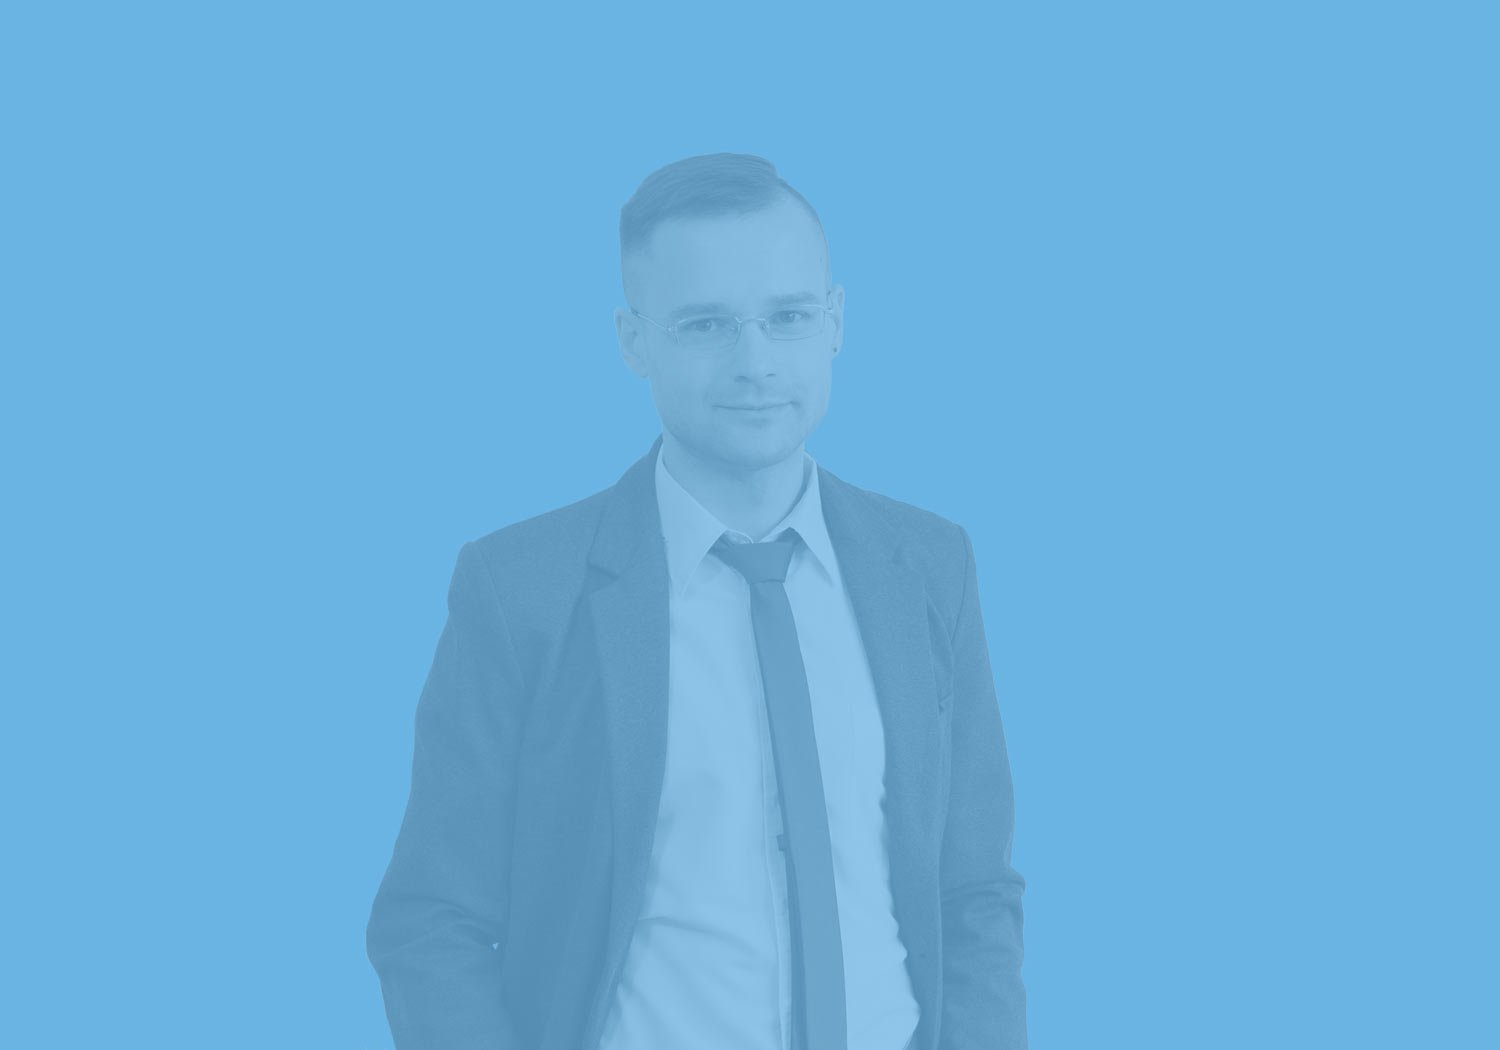
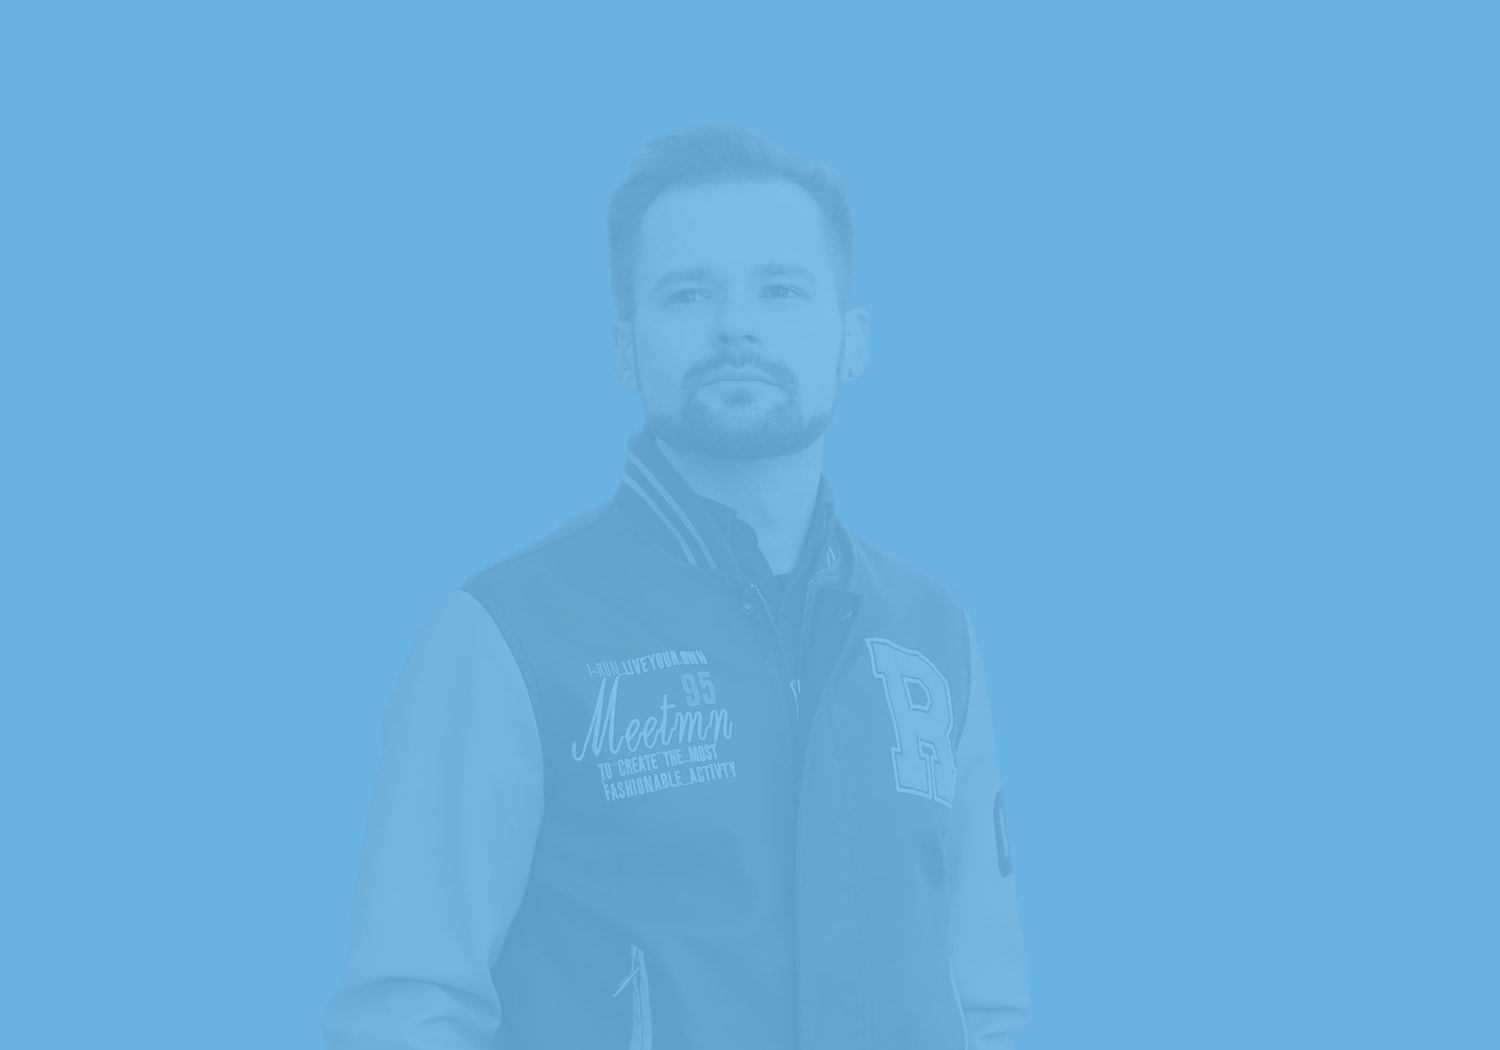
replace my photo

diff --git a/src/sass/global/_header.scss b/src/sass/global/_header.scss
@@ -1,8 +1,7 @@
 .header {
   min-height: 25vh;
   color: #fff;
-  //background: $bgblue url('../img/header_mine.jpg') no-repeat center top fixed
-  background: $bgblue;
+  background: $bgblue url('../img/header_mine.jpg') no-repeat center top fixed;
 
   &-logo {
     text-align: right;
@@ -14,6 +13,7 @@
       margin: 0 5px;
       transition: color .2s ease;
       position: relative;
+
       &:after {
         content: '';
         display: block;
@@ -25,8 +25,10 @@
         background: transparent;
         transition: width .4s ease, left .4s ease;
       }
+
       &:hover {
         color: #0074D9;
+
         &:after {
           width: 100%;
           left: 0;
@@ -40,6 +42,7 @@
     margin: 20px 0;
     justify-content: center;
     flex-direction: column;
+
     @include mq('tablet') {
       margin: 100px 0;
     }
@@ -49,13 +52,15 @@
     justify-content: center;
     margin-top: 50px;
     flex-direction: column;
+
     @include mq('tablet') {
       flex-direction: row;
     }
-    > div {
+
+    >div {
       margin: 0 25px 25px;
     }
-    
+
   }
 
   ion-icon {
@@ -65,12 +70,15 @@
   &-col__bold {
     font-weight: 700;
     display: block;
+
     @include mq('tablet') {
       display: inline;
     }
   }
+
   br {
     display: none;
+
     @include mq('tablet') {
       display: block;
     }

diff --git a/CONTRIBUTING.md b/CONTRIBUTING.md
@@ -1,6 +1,5 @@
 # TO DO
-- нормальную фотку
-
+- add glasses
 
 ## Important
 
@@ -17,3 +16,4 @@
 - Вырезать бутстрап
 - update info in russian version
 - replace glexo logo
+- нормальную фотку
